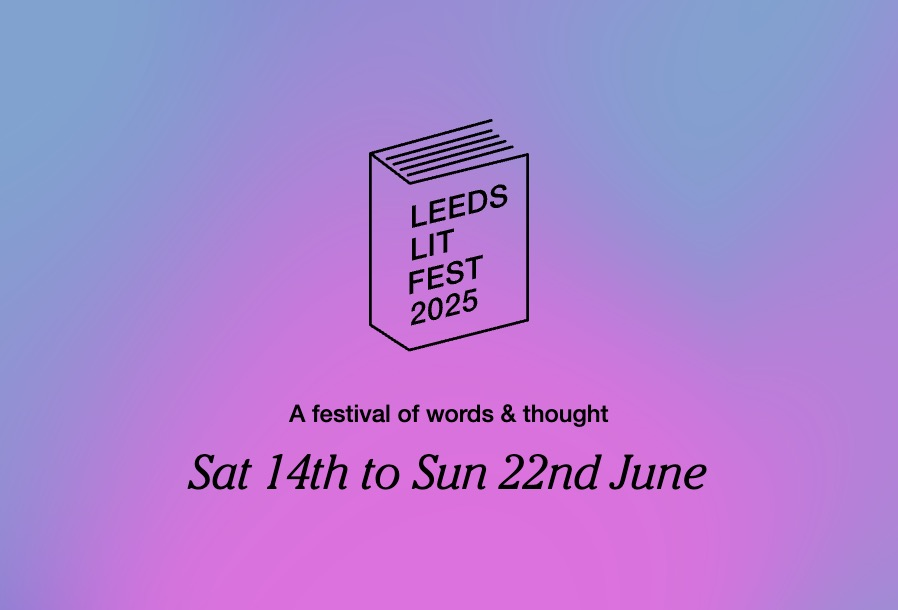
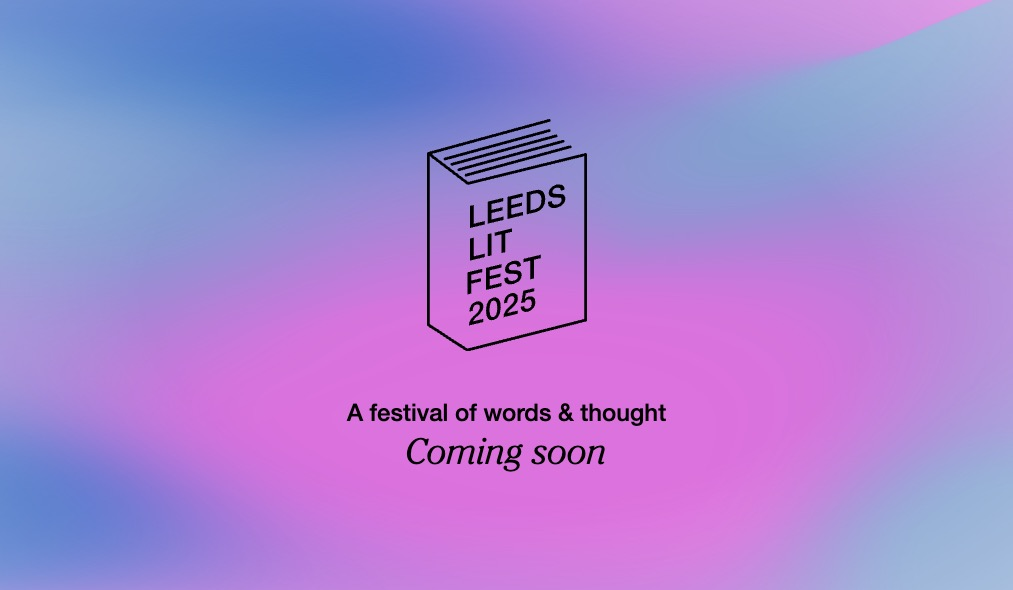
update opengraph

diff --git a/dist/index.html b/dist/index.html
@@ -17,7 +17,7 @@
     <meta name="og:image" content="/opengraph.jpg" />
 
     <script type="module" crossorigin src="/assets/index-hDk7gtwO.js"></script>
-    <link rel="stylesheet" crossorigin href="/assets/index-CeeM8HhJ.css" />
+    <link rel="stylesheet" crossorigin href="/assets/index-CeeM8HhJ.css">
   </head>
   <body
     class="h-screen bg-black w-screen flex flex-col items-center justify-center"
@@ -74,7 +74,7 @@
         A festival of words & thought
       </h1>
       <p class="font-serif text-3xl md:text-4xl lg:text-5xl text-center">
-        Coming soon
+        Sat 14th to Sun 22nd June
       </p>
     </div>
   </body>
